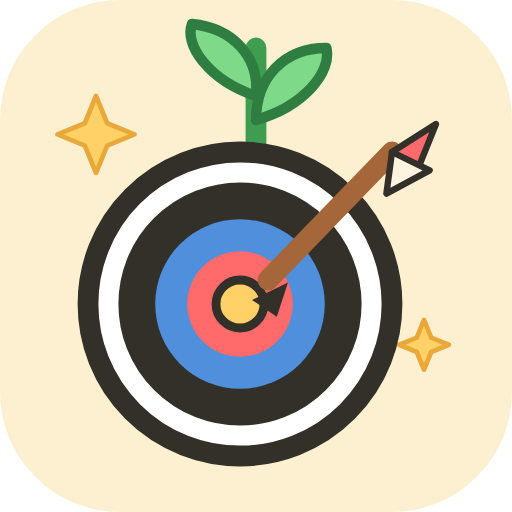
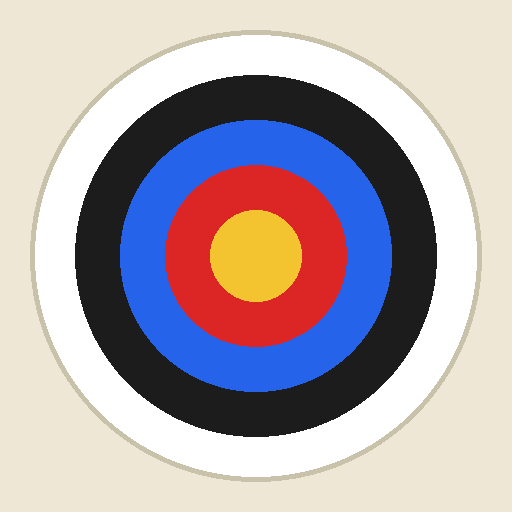
앱 아이콘을 새싹책방 아이콘에서 양궁 과녁 아이콘으로 교체
public/icon-192.png·icon-512.png가 다른 프로젝트(새싹책방)에서 넘어온
아이콘 그대로 남아있던 걸 교체했다. favicon.svg와 같은 과녁 색(TargetFace
RINGS와 동일: 흰색/검정/파랑/빨강/금색)으로 다시 그려서 일관성을 맞췄다.

Claude-Session: https://claude.ai/code/session_01L9R6j4ty5iS9jQqFGnFFy5

diff --git a/HANDOFF.md b/HANDOFF.md
@@ -146,7 +146,7 @@ supabase/schema.sql            전체 스키마 + RPC 함수 (Supabase SQL Edito
 - **배포**: `.github/workflows/deploy.yml`이 `main` push마다 GitHub Pages로 빌드/배포한다. 배포 주소: **https://minable17-glitch.github.io/level-up-archery/**
   - 이 앱은 원래 `minable17-glitch/Mingit1` 저장소의 브랜치 하나로 시작했는데, 그 저장소가 이미 새싹책방의 GitHub Pages 사이트로 쓰이고 있어서 같은 주소를 두고 배포가 서로 덮어쓰는 문제가 있었다. 그래서 이 저장소로 통째로 옮겼다 — 지금은 완전히 독립된 배포 주소를 쓴다.
   - Mingit1 저장소 쪽에는 더 이상 양궁 앱 배포 워크플로가 없어야 한다(옮기면서 지웠음). 혹시 다시 생기면 똑같은 충돌이 날 수 있으니 주의.
-- **앱 아이콘**: `public/icon-192.png`, `public/icon-512.png`가 아직 새싹책방(나무 그림)의 아이콘 그대로 남아있다. `public/favicon.svg`만 과녁 모양으로 교체했다. 실제 배포 전에 학교 쪽에서 양궁 테마 아이콘으로 교체를 권한다.
+- **앱 아이콘**: ~~새싹책방 아이콘이 남아있던 문제~~ 해결됨. `public/icon-192.png`/`icon-512.png`를 `favicon.svg`와 똑같은 과녁 색(흰색/검정/파랑/빨강/금색, 과녁면 TargetFace.jsx의 RINGS 색과 동일)으로 새로 그려서 교체했다(PIL로 생성, 사과 터치 아이콘도 `index.html`에서 이미 `icon-192.png`를 쓰고 있어 자동으로 같이 바뀜).
 - **콘텐츠 업로드**: 읽어보기/배워보기 이미지·영상, 성찰 문항의 참고 이미지는 이제 관리자 화면에서 **파일을 직접 선택해서 업로드**할 수 있다(Supabase Storage `content-uploads` 버킷, 공개 읽기 + 교사만 업로드 가능한 RLS 정책). URL을 직접 붙여넣는 방식도 여전히 지원한다(유튜브 링크 등). 버킷/정책은 `schema.sql` 맨 아래에 포함되어 있다.
 - **성장 그래프**: `getMyShootingHistory()`로 최근 기록을 가져오는 API는 만들어뒀고 `RecordTab`에서 간단한 리스트로만 보여준다. "성장" 느낌을 살리려면 `/my-records` 스타일의 꺾은선 그래프를 추가하면 좋다(러닝 앱 인수인계서 §8의 제안과 동일한 방향).
 - **사진 증빙/AI 자동인식**: 이번 구현에는 포함하지 않았다. 필요해지면 러닝 앱 인수인계서 §6-6(구글 드라이브 업로드), §6-7(AI는 항상 선택지)의 패턴을 참고할 것.
